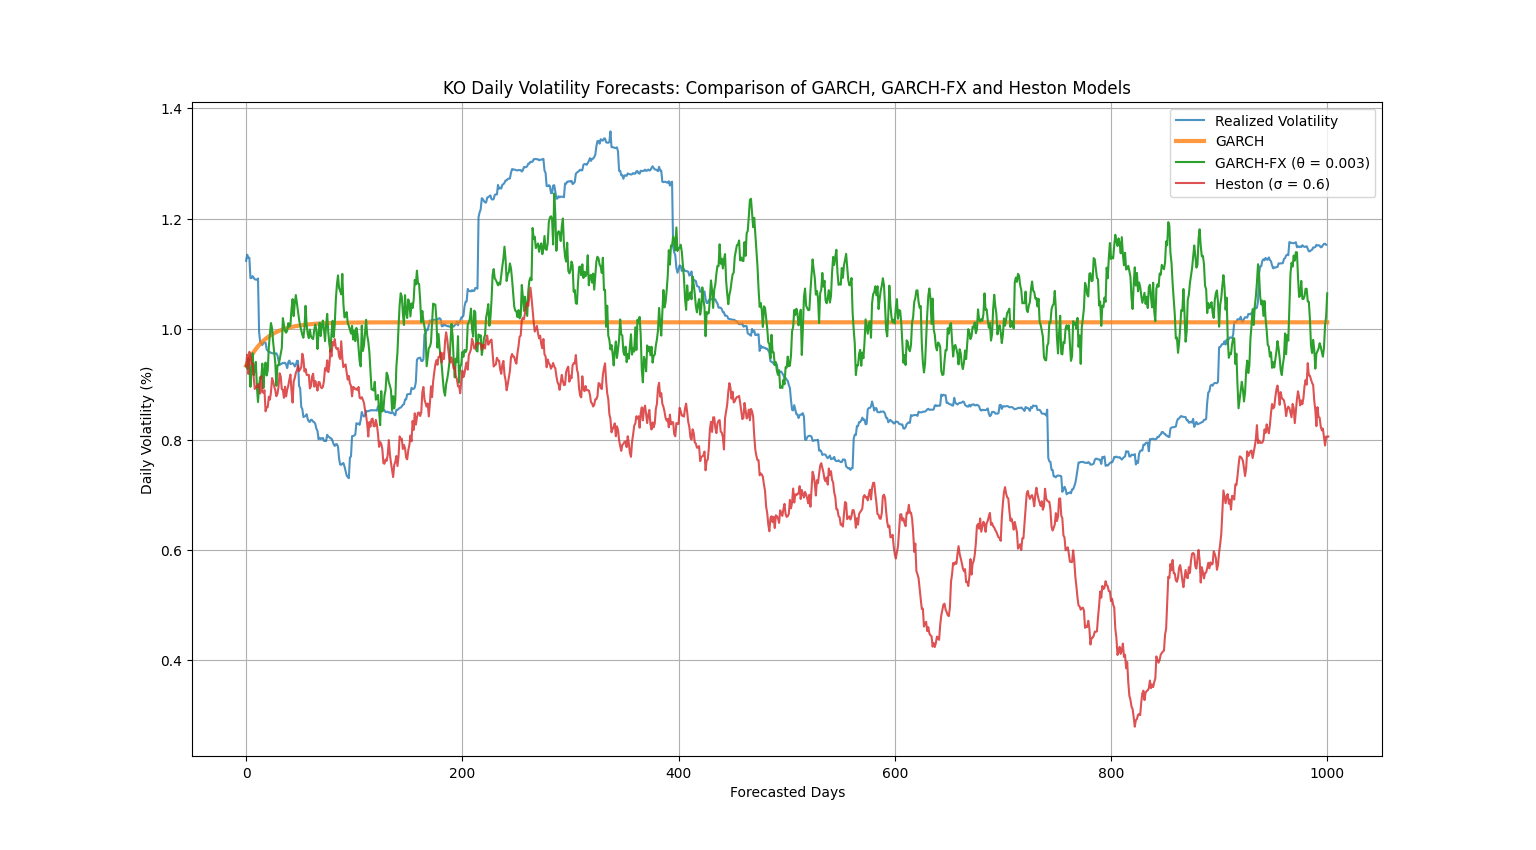
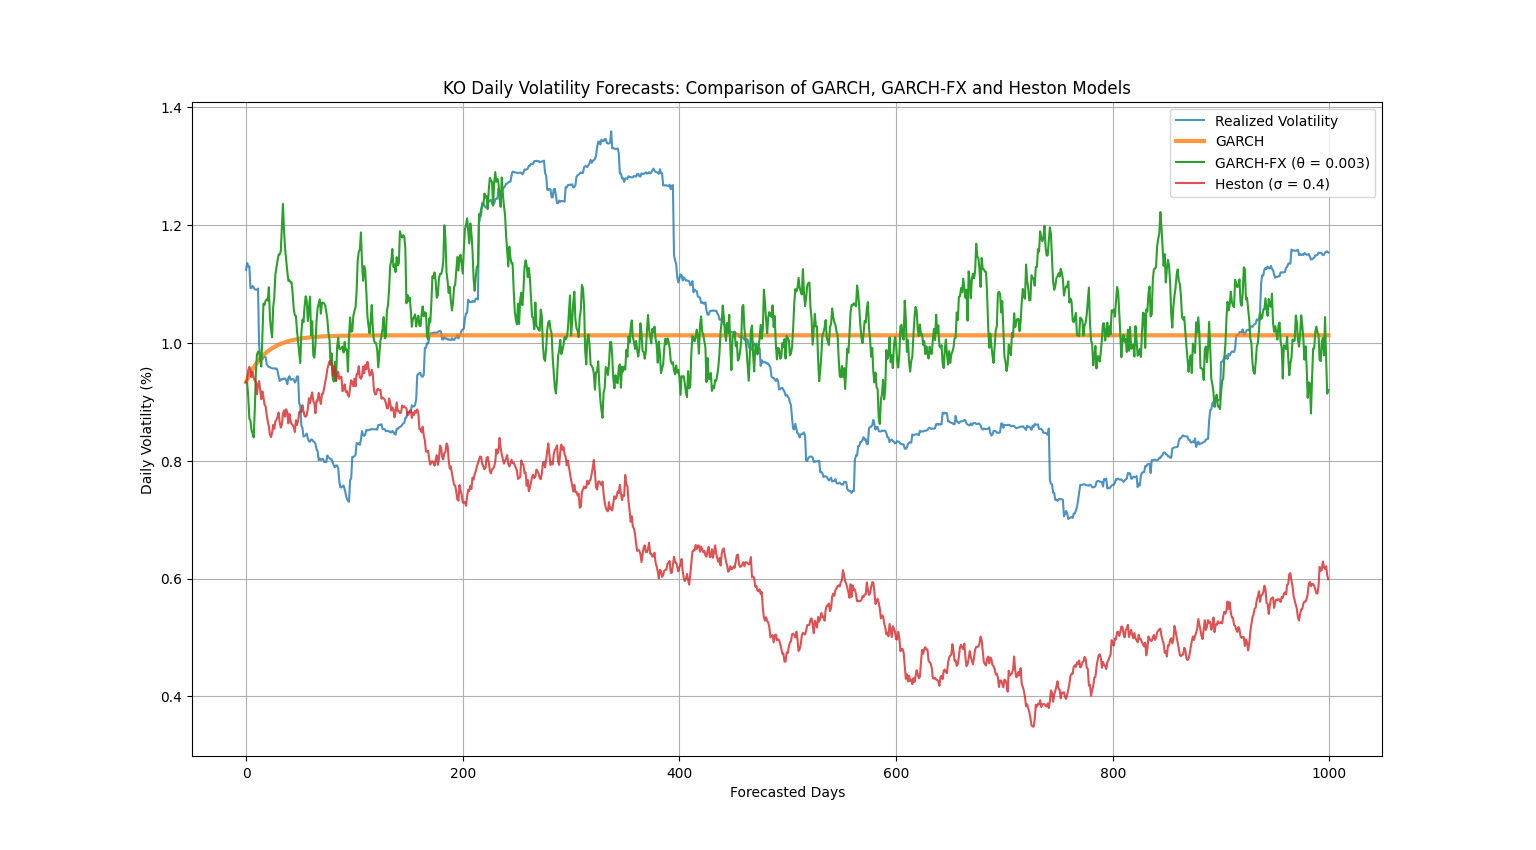
adding RMSE and benchmarks

diff --git a/test.py b/test.py
@@ -6,8 +6,8 @@ from libs.garchfx import fxforecast
 
 # Constants
 FORECASTS = 1000
-TICKER = "PG" #input("Enter Ticker: ")
-regime = True #if input("Enable Regime Shifting (Y/N): ").lower() == "y" else False
+TICKER = input("Enter Ticker: ")
+regime = True if input("Enable Regime Shifting (Y/N): ").lower() == "y" else False
 
 # Defining variables of this GARCH implementation
 # SCALE controls the volatility wiggliness, proportional to volatility of volatility
@@ -45,11 +45,18 @@ GARCHforecast = 100 * garchforecast(VOLATILITY, nahead=FORECASTS, params=PARAMS)
 # GARCH-FX stochastic forecasting extension in percentages
 FXforecast = 100 * fxforecast(VOLATILITY, nahead=FORECASTS, params=PARAMS, theta=THETA)
 
+# Root Mean Squared Error
+rmse = np.sqrt(np.mean((FXforecast - realizedVolatility) ** 2))
+print(f"RMSE (GARCH-FX to Realized Volatility): {rmse:.5f}")
+
+rmse = np.sqrt(np.mean((hestonforecast - realizedVolatility) ** 2))
+print(f"RMSE (Heston to Realized Volatility): {rmse:.5f}")
+
 # Plotting Values
 plt.plot(realizedVolatility, label="Realized Volatility", alpha=0.8)
 plt.plot(GARCHforecast, label="GARCH", linewidth=3, alpha=0.8)
 plt.plot(FXforecast, label=f"GARCH-FX (θ = {THETA})")
-plt.plot(hestonforecast, label="Heston (σ = 0.6)", alpha=0.8)
+plt.plot(hestonforecast, label="Heston (σ = 0.4)", alpha=0.8)
 plt.title(f"{TICKER} Daily Volatility Forecasts: Comparison of GARCH, GARCH-FX and Heston Models")
 plt.xlabel("Forecasted Days")
 plt.ylabel("Daily Volatility (%)")

diff --git a/libs/utils.py b/libs/utils.py
@@ -13,7 +13,7 @@ def garchforecast(volatility, nahead, params):
     previousVariance = volatility ** 2
 
     OMEGA, ALPHA, BETA = params[0], params[1], params[2]
-    for i in range(nahead):
+    for i in range(nahead-1):
 
         # GARCH equation
         newVariance = OMEGA + (ALPHA + BETA) * previousVariance
@@ -54,9 +54,9 @@ def realVol(returns, steps):
 def hestonForecast(kappa, theta, v0):
 
     # Some predefined constants
-    sigma = 0.6
+    sigma = 0.4
     T = 2.75
-    N = 1001
+    N = 1000
 
     # Use a modern random number generator
     rng = np.random.default_rng(GLOBAL_SEED)
@@ -67,10 +67,10 @@ def hestonForecast(kappa, theta, v0):
     psi_c = 1.5 
     
     # Initialize variance array
-    vt = np.zeros(N + 1)
+    vt = np.zeros(N)
     vt[0] = v0
 
-    for t in range(1, N + 1):
+    for t in range(1, N):
         
         # Calculate moments for the next step's distribution
         m = theta + (vt[t-1] - theta) * np.exp(-kappa * dt)

diff --git a/libs/garchfx.py b/libs/garchfx.py
@@ -61,7 +61,7 @@ def fxforecast(volatility, nahead, params, theta, reg=False, regimeStates=None, 
     OMEGA, ALPHA, BETA = params[0], params[1], params[2]
     np.random.seed(GLOBAL_SEED)
 
-    for i in range(nahead):
+    for i in range(nahead-1):
         
         # Modelling shape to fit variance as the mode
         SHAPE = (previousVariance / theta) + 1

diff --git a/README.md b/README.md
@@ -82,15 +82,34 @@ GARCH-FX was benchmarked against Realized Volatility, vanilla GARCH and Heston.
 
 ### 1. Berkshire Hathaway Inc Class B
 
-![BRKB](assets/brkb.png)
+```shell
+Enter Ticker: BRK-B
+Enable Regime Shifting (Y/N): y
+RMSE (GARCH-FX to Realized Volatility): 0.24490
+RMSE (Heston to Realized Volatility): 0.26849
+```
+[BRKB](assets/brkb.png)
 
 ### 2. Procter & Gamble Co
 
-![PG](assets/pg.png)
+```shell
+Enter Ticker: PG
+Enable Regime Shifting (Y/N): y
+RMSE (GARCH-FX to Realized Volatility): 0.20961
+RMSE (Heston to Realized Volatility): 0.27516
+```
+
+[PG](assets/pg.png)
 
 ### 3. Coca-Cola Co
 
-![KO](assets/ko.png)
+```shell
+Enter Ticker: KO
+Enable Regime Shifting (Y/N): y
+RMSE (GARCH-FX to Realized Volatility): 0.21125
+RMSE (Heston to Realized Volatility): 0.39119
+```
+[KO](assets/ko.png)
 
 ---
 
